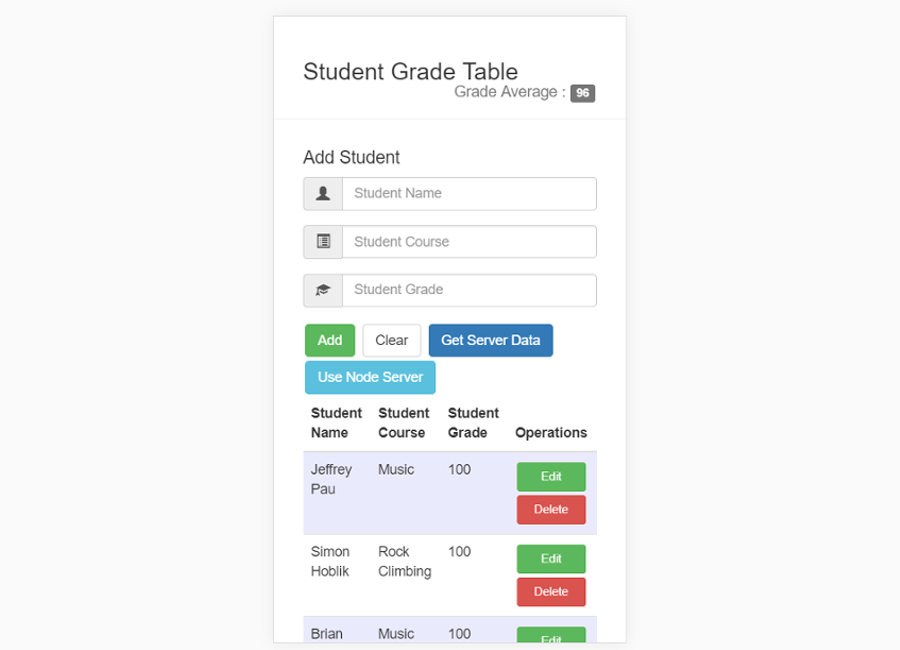
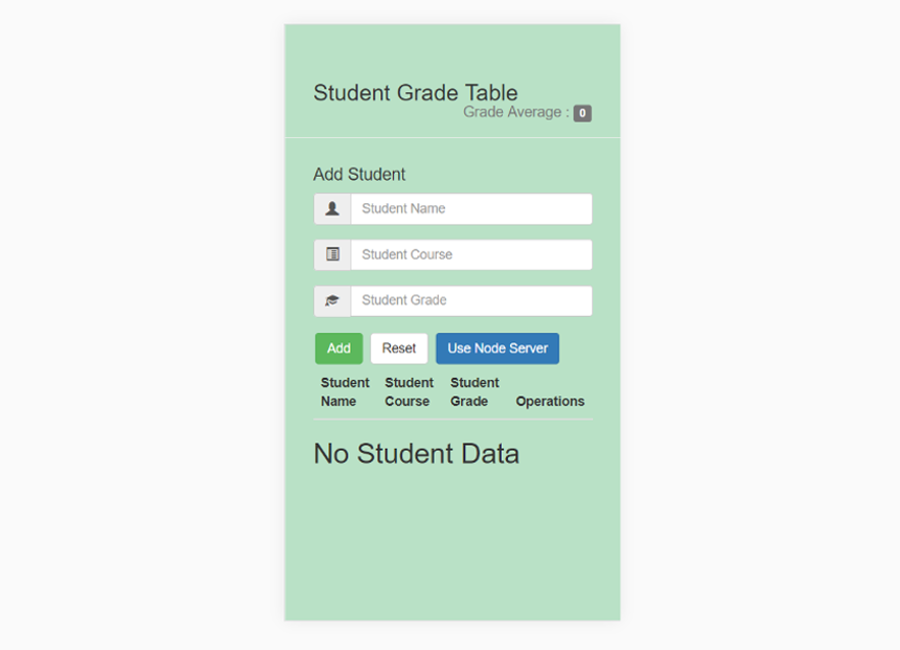
changed some of my portfolio project images to match my updated projects, and added a second image for my primary project.

diff --git a/index.html b/index.html
@@ -249,7 +249,7 @@
           <div class="col-lg-8 mx-auto">
             <h2 class="text-secondary text-uppercase mb-0">Final Transmissions</h2>
             <hr class="circle-dark mb-5">
-            <img class="img-fluid mb-5" src="img/portfolio/finaltransmissions.png" alt="">
+            <img class="img-fluid mb-5" src="img/portfolio/finaltransmissions2.png" alt="">
             <p class="portfolio-links"><a href="https://finaltransmissions.com" target="_blank">Live</a> | <a href="#" target="_blank">GitHub - add link</a></p>
             <p class="mb-5">An augmented reality, location based storytelling experience. Grab your Android phone, earbuds, and head on over to a story location for any available stories to experience the blood, sweat, and tears of six developers; engineered over the course of a month and a half.</p>
             <a class="btn btn-primary btn-lg rounded-pill portfolio-modal-dismiss" href="#">
@@ -272,7 +272,7 @@
             <h2 class="text-secondary text-uppercase mb-0">Student Grade Table</h2>
             <hr class="circle-dark mb-5">
             <img class="img-fluid mb-5" src="img/portfolio/sgt2.png" alt="">
-            <p class="portfolio-links"><a href="#" target="_blank">Live - add link</a> | <a href="#" target="_blank">GitHub - add link</a></p>
+            <p class="portfolio-links"><a href="#" target="_blank">Live - add link</a> | <a href="https://github.com/finleth/student-grade-table" target="_blank">GitHub</a></p>
             <p class="mb-5">Lorem ipsum dolor sit amet, consectetur adipisicing elit. Mollitia neque assumenda ipsam nihil, molestias magnam,
               recusandae quos quis inventore quisquam velit asperiores, vitae? Reprehenderit soluta, eos quod consequuntur
               itaque. Nam.</p>
@@ -321,7 +321,7 @@
               <hr class="circle-dark mb-5">
               <img class="img-fluid mb-5" src="img/portfolio/trothello2.png" alt="">
               <p class="portfolio-links"><a href="/apps/trothello" target="_blank">Live </a> | <a href="https://github.com/finleth/trothello" target="_blank">GitHub</a></p>
-              <p class="mb-5">What do you get when you cross a board game classic with the an action movie? Trothello! Experience the classic game of othello (also known as reversi) with a Tron Legacy theme! Single and two player options are available.</p>
+              <p class="mb-5">What do you get when you cross a board game classic with an action movie? Trothello! Experience the classic game of othello (also known as reversi) with a Tron Legacy theme! Single and two player options are available.</p>
               <a class="btn btn-primary btn-lg rounded-pill portfolio-modal-dismiss" href="#">
                 <i class="fa fa-close"></i>
                 Close Project</a>
